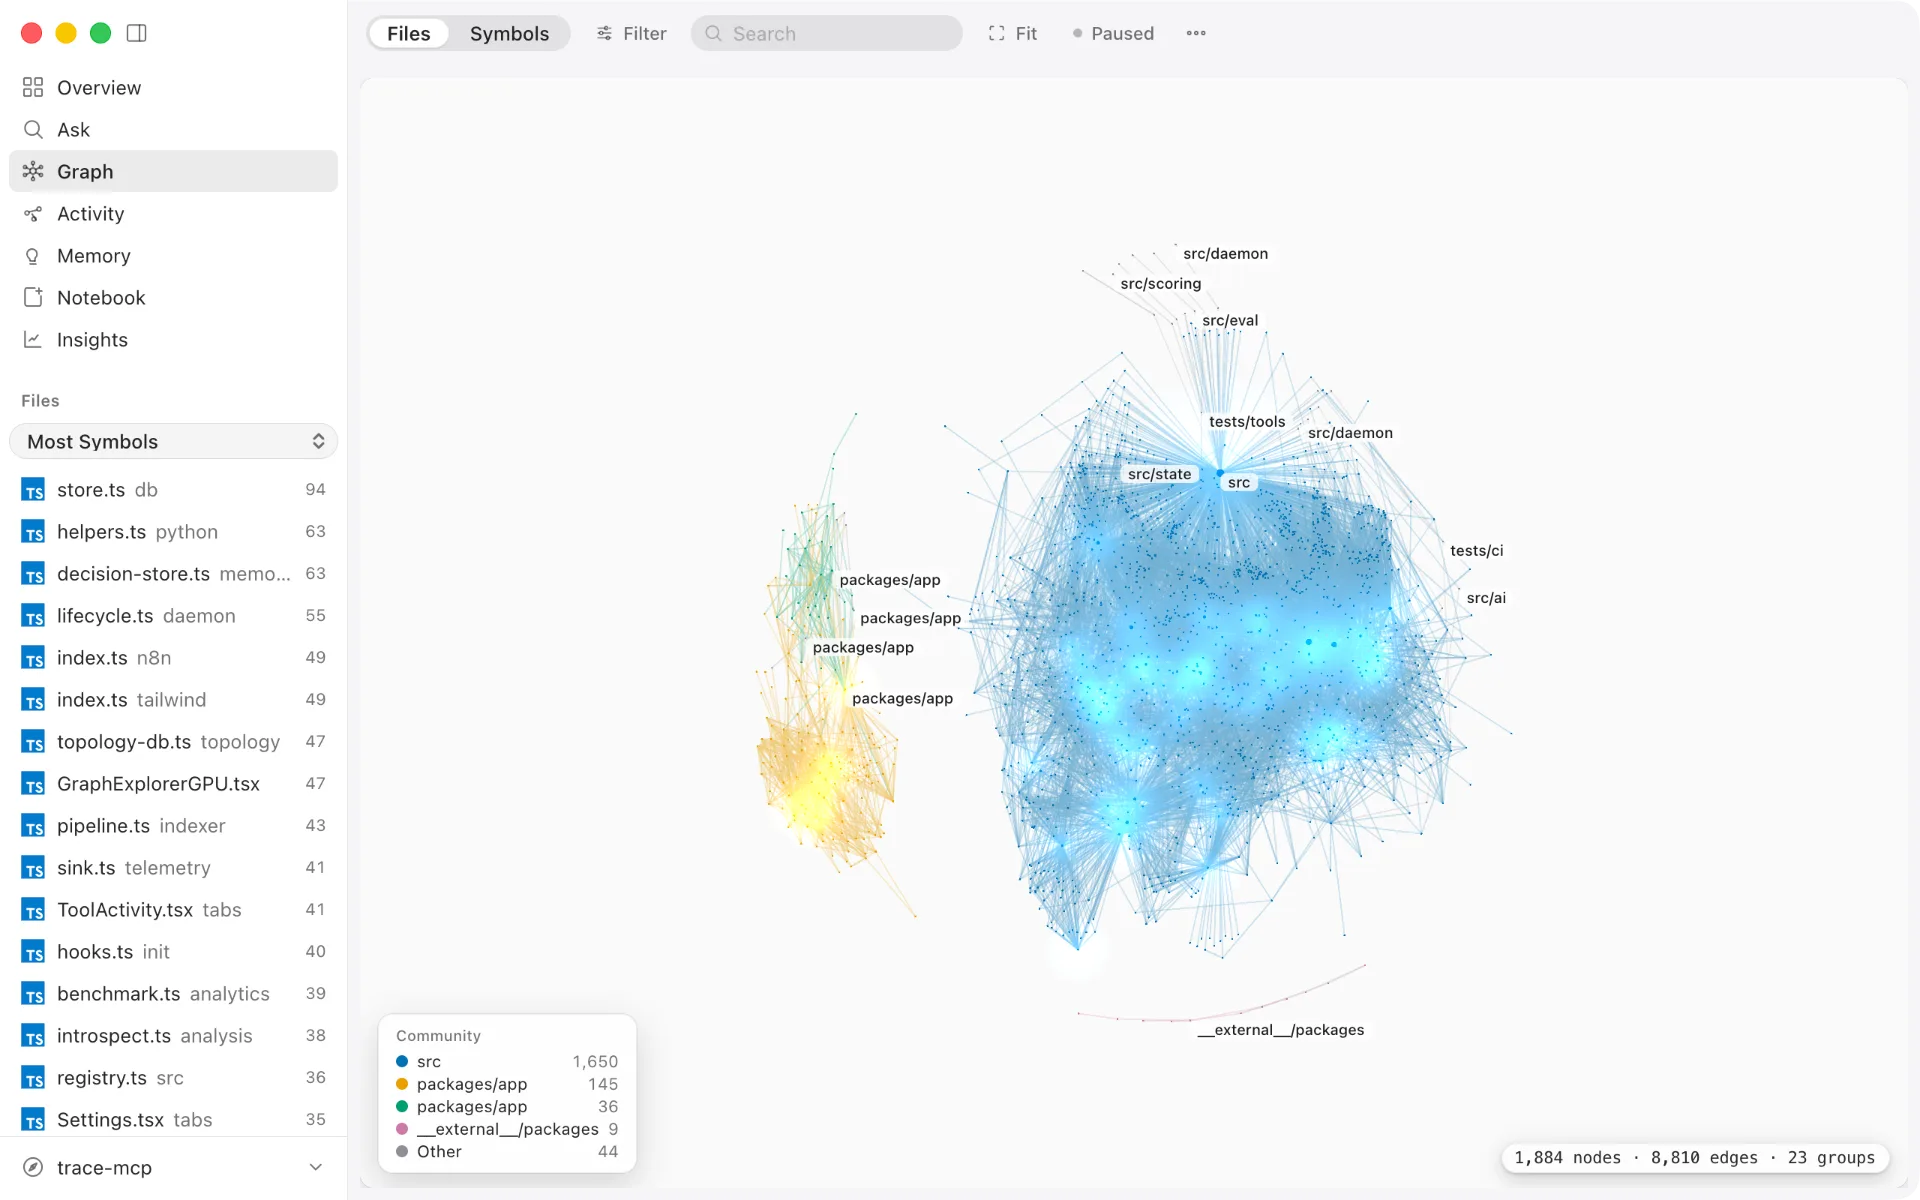
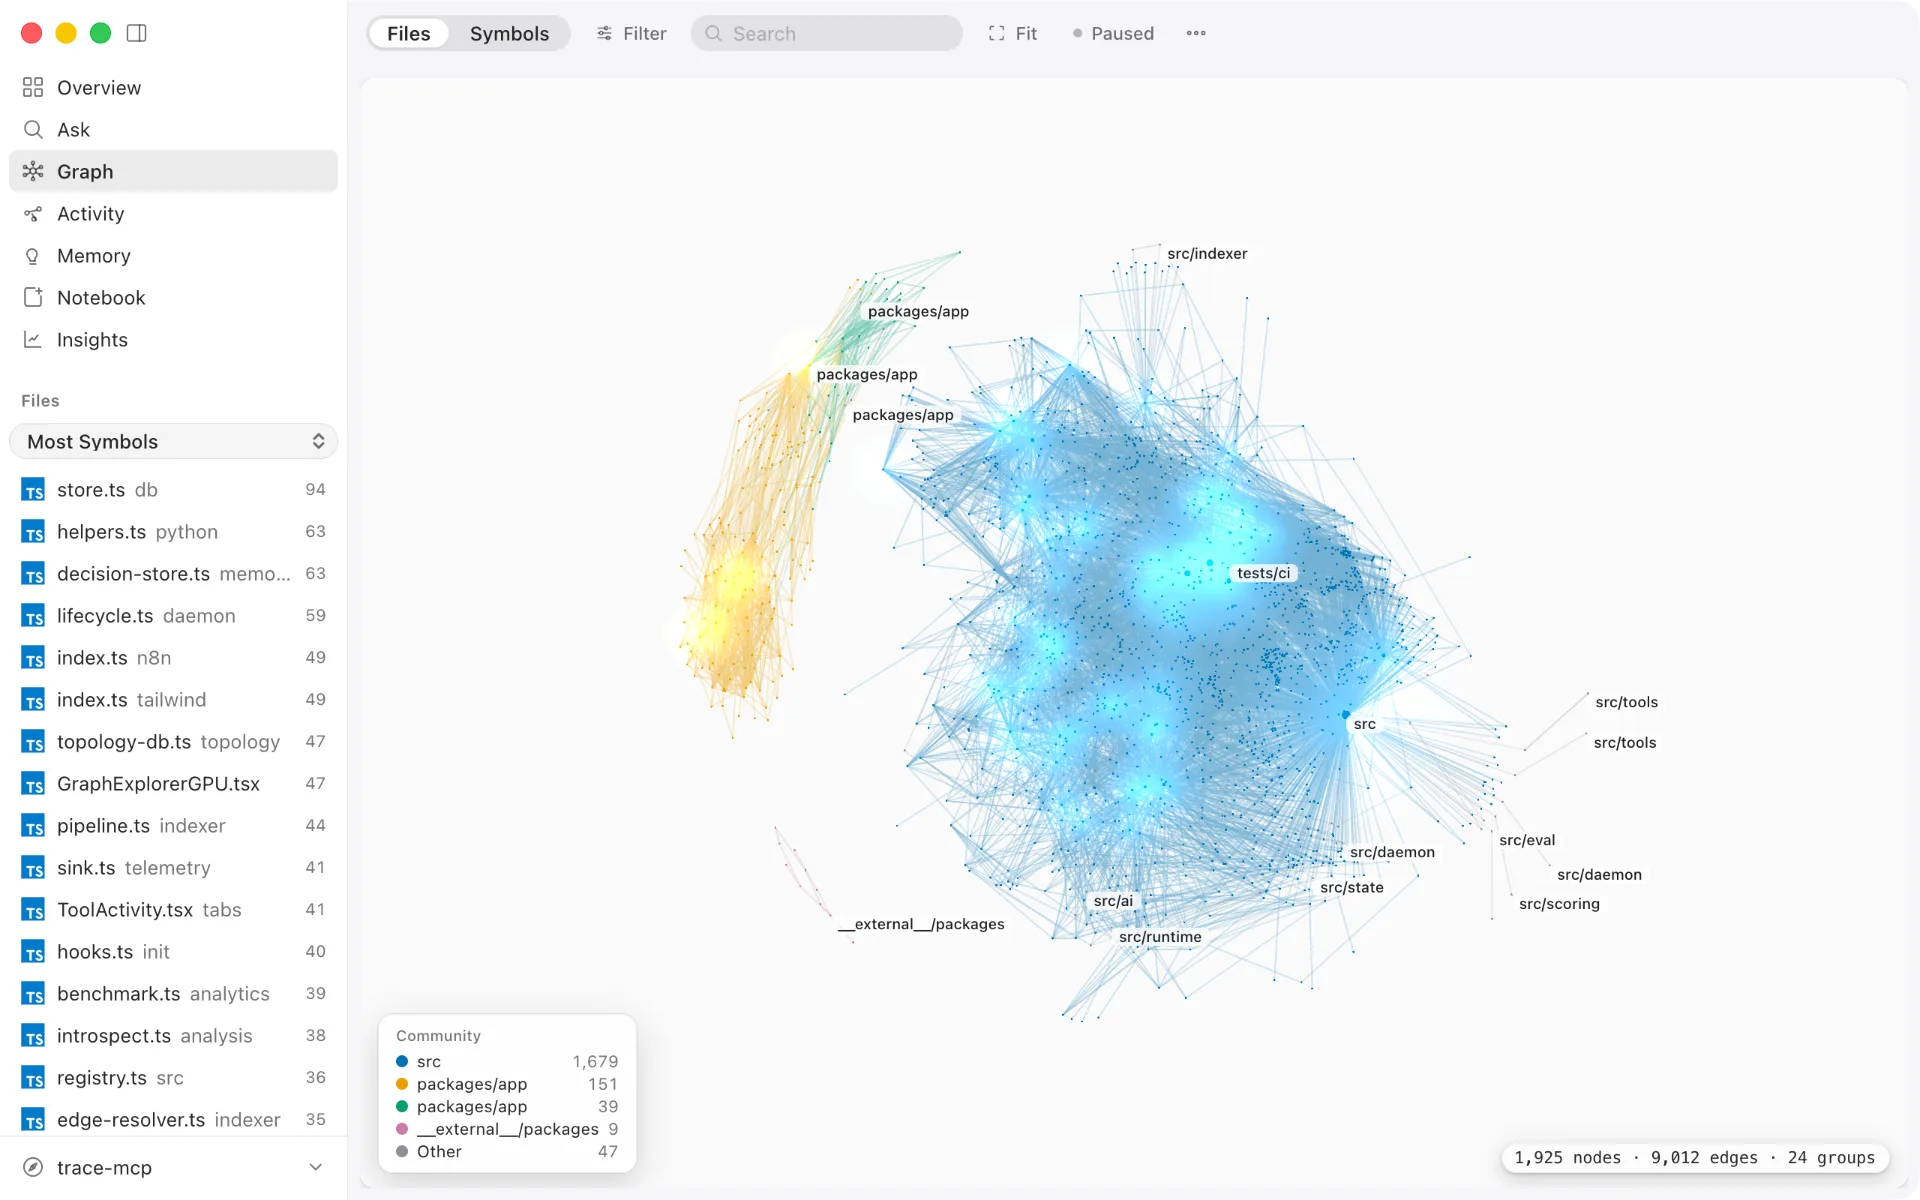
docs: refresh the app screenshots and correct a stale checklist claim (TRA-955) (#970)
The committed set was two markers stale: the app UI moved 150a59fd -> d88864d4
(nine commits under packages/app/src/{renderer,main}) and the app version went
3.17.0 -> 3.18.0. Re-captured with scripts/capture-screenshots.mjs on an idle
machine; all six frames inspected — no error banners, skeletons, scratch
directories or personal paths. Alt texts still describe the surfaces, so they
are unchanged.

docs/DESIGN-WEB.md's own un-paired-shot measurement still read 'It is 2 today'.
Run against docs/index.html it reads 0 — all six app shots have been paired
since TRA-851 — so the checklist was teaching the reader to expect a failure
that no longer exists.

Agent: Lead Engineer

diff --git a/ops/docs-audit.md b/ops/docs-audit.md
@@ -33,6 +33,7 @@ Claims that a test already guards need no re-audit; the guard is the record:
 | 2026-09-04 | `docs/configuration.md` — every key, type and default it states, in both tables and jsonc examples | every path in `TraceMcpConfigSchema`, walked programmatically for type, enum members, bounds and default | **Documented defaults are accurate** — one automated pass over every table row and every `// default:` comment found no drift, and no ghost keys: everything the page names exists. Two real defects: the page claimed to cover "every key" while describing 190 of 263 (73 keys were documented nowhere in the repo, including all of `predictive`, `runtime`, `indexer`, `pipeline`, `vault`, `logging`, `git` and six daemon knobs), and the Multica-agents section stated the default preset is `standard` — it is `minimal`, as the same page's own `tools.preset` row says. Fixed by generating `docs/config-index.md` from the schema and correcting the preset claim. |
 | 2026-09-04 | `config.db.path` | `src/global.ts` `getDbPath()`, and every reader of `config.db` | The default `.trace-mcp/index.db` is vestigial: indexes are resolved into `~/.trace/index/` and the only runtime reader is the `config.dbPath` field of `get_project_status`, which therefore reports a path no database is at. A code bug, not a doc bug — noted on the generated page, filed separately. |
 | 2026-09-02 | `SECURITY.md` default-exclude list | `src/config.ts:879` | Claimed `.trace-mcp` and `.turbo` are excluded by default. Neither is in the schema default. Also claimed the index DB defaults to a project-relative `.trace-mcp/index.db`; real DBs are resolved by `getDbPath()` into `~/.trace/index/`. Both fixed. |
+| 2026-09-05 | `docs/images/` freshness and content, and the screenshot claims in `docs/DESIGN-WEB.md` | `node scripts/capture-screenshots.mjs --check`, then a re-capture and a look at all six frames; the pairing check the checklist itself prescribes, run against `docs/index.html` | The committed set was two markers stale — app UI `150a59fd → d88864d4` (9 commits under `packages/app/src/{renderer,main}`) and app version 3.17.0 → 3.18.0. Re-captured; all six frames publishable (no error banners, skeletons, personal paths). The checklist's own un-paired-shot measurement stated "It is 2 today" — it is 0: all six shots have been paired since TRA-851, so the line taught the reader to expect a failure that no longer exists. Fixed. Remaining defect, not fixed here: in `app-dark-projects` the three headline tiles read "No change vs 2 seconds ago" because the light shot seeds the delta baseline moments earlier, while the same tiles in the light shot read "tracking from today". Capture-script fix, filed separately (script is owned by Design/UX). |
 | 2026-09-04 | `db.path` / `TRACE_MCP_DB_PATH` as a configurable index location (`SECURITY.md:150`) | `src/global.ts` `getDbPath()`, every `new Store(...)` call site | Neither the key nor the env var reached the code that opens the database — the only reader was `get_index_health`, which reported the schema default `.trace-mcp/index.db` as `dbPath`. Removed the key, the env override and the `SECURITY.md` claim; `get_index_health` now reports `store.db.name` (TRA-802). |
 
 ## Not audited yet

diff --git a/docs/DESIGN-WEB.md b/docs/DESIGN-WEB.md
@@ -533,10 +533,11 @@ appearance without a screenshot or a measurement is not a finding.
         i.classList.contains('theme-dark-only')).length
       ```
 
-      Must be 0. It is 2 today — `app-overview` and `app-projects` have no
-      dark counterpart, so a dark reader gets two light app windows on OLED
-      black (TRA-851). The un-paired shot is the failure this line exists to
-      catch; the stacked pair above is the other one.
+      Must be 0, and is: all six app shots have been paired since TRA-851.
+      It read 2 while `app-overview` and `app-projects` had no dark
+      counterpart and a dark reader got two light app windows on OLED black.
+      The un-paired shot is the failure this line exists to catch; the
+      stacked pair above is the other one.
 - [ ] Theme choice survives landing → doc page navigation.
 - [ ] Contrast sweep is green. Not a claim — a command:
 
